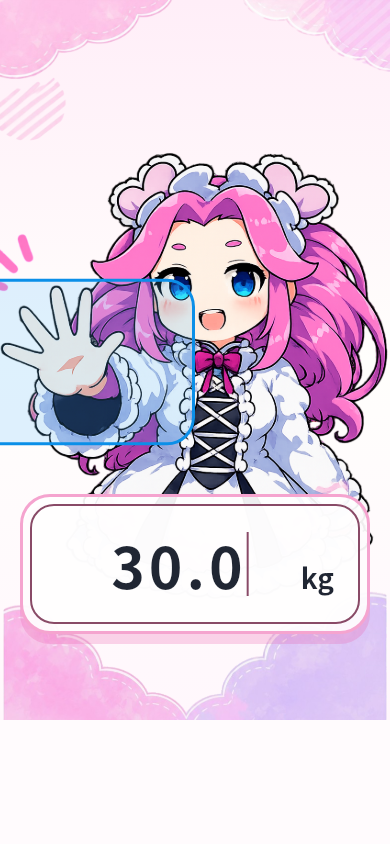
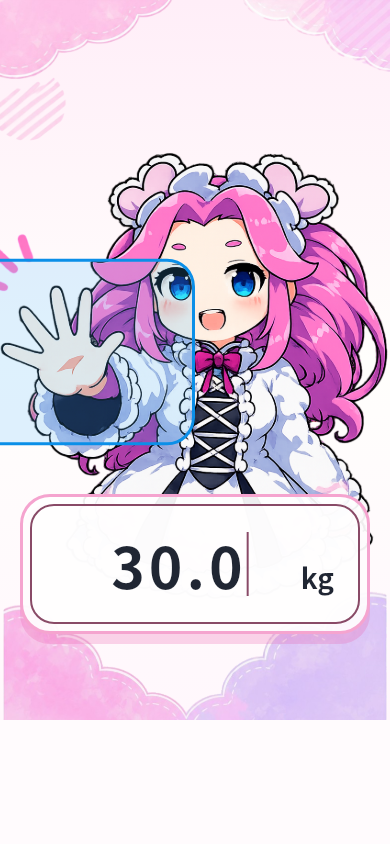
Extend high touch area by twenty

Changed region(s): [[0.0, 0.3081, 0.5231, 0.3697]]

diff --git a/lib/screens/home_screen.dart b/lib/screens/home_screen.dart
@@ -256,9 +256,9 @@ class _WeightInputHero extends StatelessWidget {
                                           children: [
                                             Positioned(
                                               left: 0,
-                                              top: cellHeight - 10,
+                                              top: cellHeight - 30,
                                               width: constraints.maxWidth / 2,
-                                              height: cellHeight + 10,
+                                              height: cellHeight + 30,
                                               child: Semantics(
                                                 button: true,
                                                 label: 'ハイタッチ',
